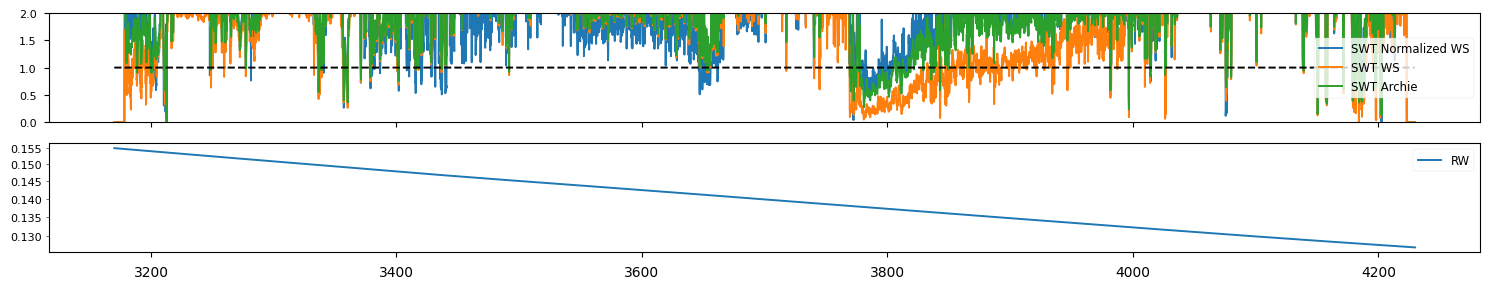
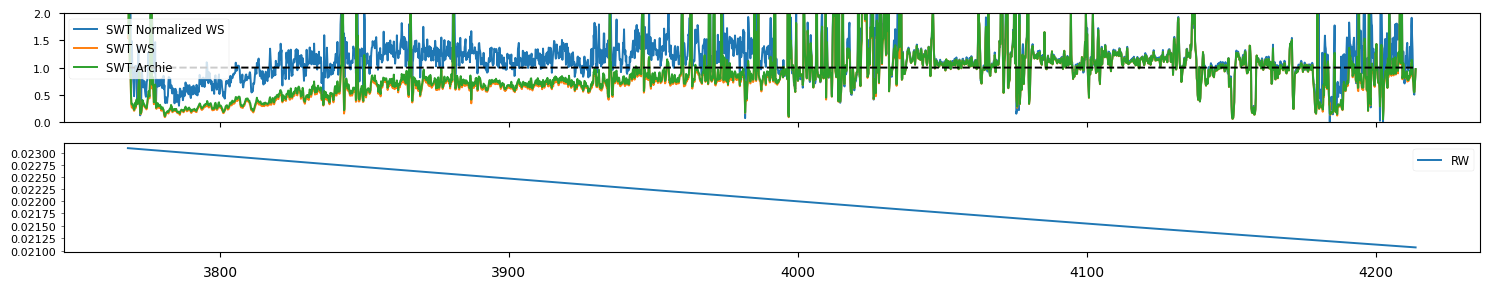
updated readme for Volve analysis

diff --git a/02_VOLVE/README.md b/02_VOLVE/README.md
@@ -95,6 +95,8 @@ This notebook consolidates all petrophysical calculations to generate a comprehe
 *   **Cross-Well QA/QC**: Finally, a `quick_compare` plot was generated to visually inspect the consistency of the key logs across all wells, ensuring a high level of confidence in the final interpretation.
 
 ### Overall Results
+The analysis of the initial three wells provides a clear picture of the Hugin Formation reservoir. The discovery well, 15/9-19-SR, confirmed a high-quality, oil-bearing sandstone. The subsequent appraisal wells successfully delineated the accumulation: 15/9-19-A encountered a significantly thicker oil column with similar excellent reservoir properties, while the 15/9-19-BT2 sidetrack penetrated the same high-quality reservoir in the water leg, effectively defining the downdip extent of the oil accumulation.
+
 ![Hugin Pay Ressum](static/hugin_pay_ressum.png)
 
 #### 15-9-19-SR (May 1993)
@@ -108,8 +110,8 @@ The Hugin formation is thicker in this well (net 112 meters TVD thick) with aver
 ![15-9-19-A Result](static/15-9-19-A_Result_Interpretation.png)
 
 #### 15-9-19-BT2 (Feb 1998)
-The Hugin formation in this well is water bearing (with shows) and no test was performed. No fluid sample was taken but FMT measurements confirmed a water gradient (0.473 psi/ft). The reservoir quality is still the same (net 112 meters TVD thick) with average PHIT of 0.20 and PERM 1 Darcy.
-The Hugin formation is water bearing. Low water 
+The Hugin formation in this well is water-bearing, confirmed by FMT pressure gradients (0.473 psi/ft). Reservoir quality is excellent, with a net thickness of 112 meters (TVD), average PHIT of 0.20, and permeability of 1 Darcy. The calculated water saturation (SWT) curve exhibits sharp, low spikes; these are interpreted as calculation artifacts caused by minor depth mismatches between density and resistivity logs over thin, tight streaks, not as hydrocarbon indications.
+
 ![15-9-19-BT2 Result](static/15-9-19-BT2_Result_Interpretation.png)
 
 ### Key Insights and Conclusion
